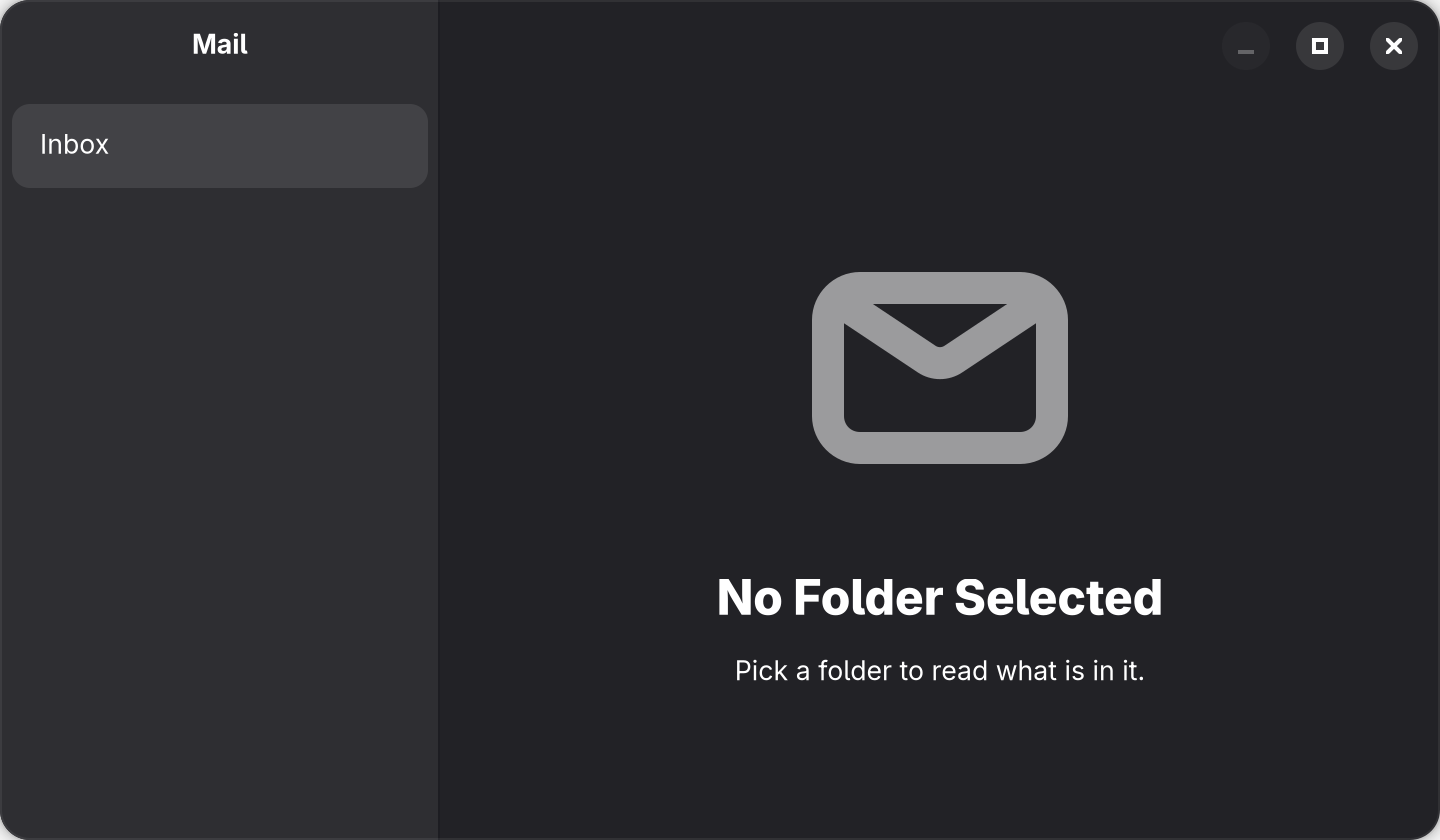
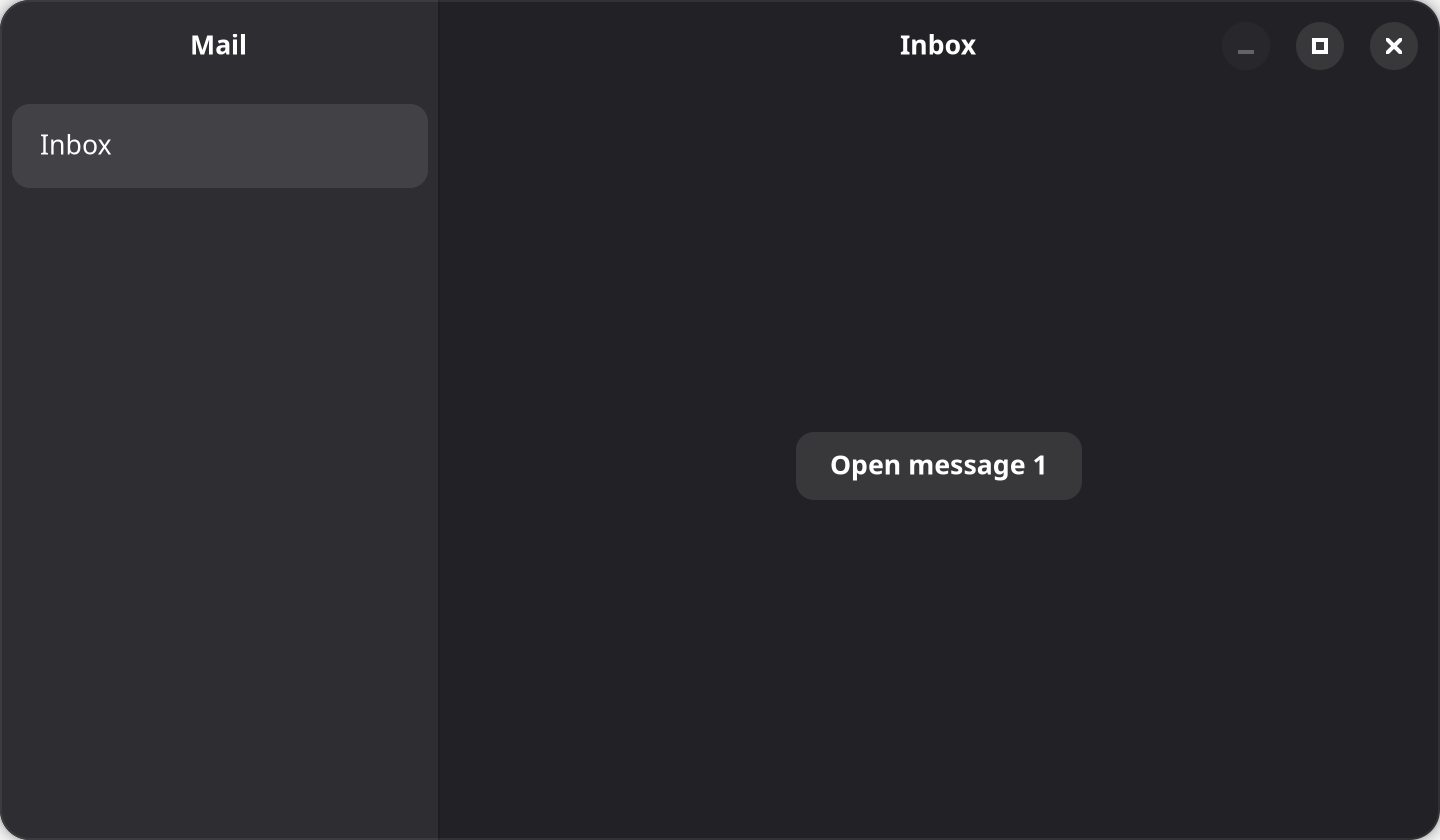
Open split view figure on Inbox, title navigation figures

diff --git a/website/figures/guide/navigation-split-view.tsx b/website/figures/guide/navigation-split-view.tsx
@@ -23,7 +23,7 @@ const Folders = ({
     navigation,
 }: SplitViewScreenProps<MailParams, "Folders">) => (
     <AdwSidebar
-        onActivated={() => navigation.navigate("Messages", { folder: "inbox" })}
+        onActivated={() => navigation.navigate("Messages", { folder: "Inbox" })}
     >
         <AdwSidebarSection>
             <AdwSidebarItem title="Inbox" />
@@ -48,6 +48,7 @@ const Message = ({ route }: SplitViewScreenProps<MailParams, "Message">) => (
 
 export const Mail = () => (
     <Split.Navigator
+        initialRouteName="Messages"
         collapseCondition="max-width: 500sp"
         minSidebarWidth={220}
         maxSidebarWidth={300}
@@ -68,6 +69,7 @@ export const Mail = () => (
         <Split.Screen
             name="Messages"
             component={Messages}
+            initialParams={{ folder: "Inbox" }}
             options={({ route }) => ({ title: route.params.folder })}
         />
         <Split.Screen

diff --git a/website/v2/guide/navigation.md b/website/v2/guide/navigation.md
@@ -152,7 +152,7 @@ export const App = () => {
 
 `createStackNavigator` renders an `AdwNavigationView`. Define the route parameters to typecheck screens, `navigate` calls, and `route.params`:
 
-<<< @/figures/guide/navigation-stack.tsx
+<<< @/figures/guide/navigation-stack.tsx [src/notes.tsx]
 
 <figure class="result">
     <img class="result-light" src="/figures/guide-navigation-stack-light.png" width="360" height="260" loading="lazy" alt="A window whose header bar shows the title Notes above a centered Open note 42 button." />
@@ -260,7 +260,7 @@ Stack screens emit `transitionStart` and `transitionEnd` from their native page 
 
 `createTabNavigator` renders an `AdwViewStack`. The switcher occupies the header title by default; `tabBarPosition="bottom"` puts an `AdwViewSwitcherBar` below the content:
 
-<<< @/figures/guide/navigation-tabs.tsx
+<<< @/figures/guide/navigation-tabs.tsx [src/mail.tsx]
 
 <figure class="result">
     <img class="result-light" src="/figures/guide-navigation-tabs-light.png" width="360" height="440" loading="lazy" alt="A window titled Inbox showing an Inbox status page, with a switcher bar at the bottom holding an Inbox button with a badge of 3 and an Archived button." />
@@ -280,7 +280,7 @@ User selection emits `tabPress`, which a screen listener can prevent. Programmat
 
 `createDrawerNavigator` uses an `AdwOverlaySplitView`. Its sidebar lists the screens and marks the focused one; a button in the content header toggles the sidebar:
 
-<<< @/figures/guide/navigation-drawer.tsx
+<<< @/figures/guide/navigation-drawer.tsx [src/app.tsx]
 
 <figure class="result">
     <img class="result-light" src="/figures/guide-navigation-drawer-light.png" width="640" height="400" loading="lazy" alt="A window with a sidebar titled Mail listing Inbox, selected, and Preferences with their icons, beside a content pane whose header has a sidebar toggle and the title Inbox above a No New Mail status page." />
@@ -322,13 +322,15 @@ Activating a row emits `drawerItemPress`, which `preventDefault` cancels, before
 
 `createSplitViewNavigator` keeps its first screen in the sidebar and places the other screens in a content stack. Use it when the sidebar selects data, such as a folder whose messages appear beside it:
 
-<<< @/figures/guide/navigation-split-view.tsx
+<<< @/figures/guide/navigation-split-view.tsx [src/mail.tsx]
 
 <figure class="result">
-    <img class="result-light" src="/figures/guide-navigation-split-view-light.png" width="720" height="420" loading="lazy" alt="A window with a sidebar titled Mail holding an Inbox row, beside a content pane with an untitled header bar above a No Folder Selected status page reading Pick a folder to read what is in it." />
-    <img class="result-dark" src="/figures/guide-navigation-split-view-dark.png" width="720" height="420" loading="lazy" alt="A window with a sidebar titled Mail holding an Inbox row, beside a content pane with an untitled header bar above a No Folder Selected status page reading Pick a folder to read what is in it." />
-    <figcaption>Captured from the sample above. <code>contentPlaceholder</code> fills the content pane until a folder is selected.</figcaption>
+    <img class="result-light" src="/figures/guide-navigation-split-view-light.png" width="720" height="420" loading="lazy" alt="A window with a sidebar titled Mail holding a selected Inbox row, beside a content pane whose header bar is titled Inbox above a centered Open message 1 button." />
+    <img class="result-dark" src="/figures/guide-navigation-split-view-dark.png" width="720" height="420" loading="lazy" alt="A window with a sidebar titled Mail holding a selected Inbox row, beside a content pane whose header bar is titled Inbox above a centered Open message 1 button." />
+    <figcaption>Captured from the sample above. The navigator opens on the Inbox folder, which the sidebar selects first.</figcaption>
 </figure>
+
+`AdwSidebar` selects its first item on its own, and `activated` fires only when the user activates a row. The sample therefore names a content screen in `initialRouteName`, with `initialParams`, so the pane opens on the folder the sidebar shows as selected instead of on the placeholder.
 
 In a split view, `navigate` selects a content route: it updates that route and removes pages above it. Choosing another folder therefore replaces the selection instead of adding another folder page. Use `push` to keep multiple copies of a content page.
 
@@ -364,11 +366,11 @@ const Sections = ({ navigation, route }: SplitViewScreenProps<SettingsParams, "S
 
 The reset switches sections without a page transition.
 
-The sidebar stays pinned beneath the content routes. Going back from the first content page clears the selection and restores `contentPlaceholder`, which sits below an untitled header bar so the window keeps its controls. An `initialRouteName` naming a content screen opens that screen instead of starting with the placeholder.
+The sidebar stays pinned beneath the content routes. Going back from the first content page clears the selection and restores `contentPlaceholder`, which sits below an untitled header bar so the window keeps its controls.
 
 Content pages use the stack's headers, back controls and transition events. The first selection fills an empty pane and emits no page transition. The sidebar has its own header without a back button.
 
-`collapseCondition` collapses the panes while an [`Adw.BreakpointCondition`](https://gnome.pages.gitlab.gnome.org/libadwaita/doc/main/type_func.BreakpointCondition.parse.html) holds, measured against the navigator's size. libadwaita applies it during layout, as it applies an `AdwBreakpoint` setter, so the panes change before GTK moves keyboard focus. Setting `collapsed` from a breakpoint's `onApply` and `onUnapply` handlers lands after GTK has moved focus, and widening the window can then select the focused sidebar row. Use `collapsed` when the layout depends on application state rather than size.
+`collapseCondition` collapses the panes while an [`Adw.BreakpointCondition`](https://gnome.pages.gitlab.gnome.org/libadwaita/doc/1-latest/type_func.BreakpointCondition.parse.html) holds, measured against the navigator's size. libadwaita applies it during layout, as it applies an `AdwBreakpoint` setter, so the panes change before GTK moves keyboard focus. Setting `collapsed` from a breakpoint's `onApply` and `onUnapply` handlers lands after GTK has moved focus, and widening the window can then select the focused sidebar row. Use `collapsed` when the layout depends on application state rather than size.
 
 As with window breakpoints, give the window a minimum size the collapsed layout fits:
 
@@ -385,7 +387,7 @@ export const App = () => (
 );
 ```
 
-`useSplitViewCollapsed()` tells the navigator's screens whether the panes are collapsed, whether `collapsed` or `collapseCondition` collapsed them. libadwaita's [`AdwSidebar`](https://gnome.pages.gitlab.gnome.org/libadwaita/doc/main/class.Sidebar.html) switches to page mode with the breakpoint that collapses its split view, so a sidebar screen reads the hook instead of repeating the condition in a window breakpoint:
+`useSplitViewCollapsed()` tells the navigator's screens whether the panes are collapsed, whether `collapsed` or `collapseCondition` collapsed them. libadwaita's [`AdwSidebar`](https://gnome.pages.gitlab.gnome.org/libadwaita/doc/1-latest/class.Sidebar.html) switches to page mode with the breakpoint that collapses its split view, so a sidebar screen reads the hook instead of repeating the condition in a window breakpoint:
 
 ```tsx
 import * as Adw from "@gtkx/gi/adw";
@@ -594,7 +596,7 @@ declare module "@react-navigation/core" {
 }
 ```
 
-GTKX uses the interface declared by `@react-navigation/core`, so augment that module. Install it directly with `npm install @react-navigation/core@^7`: pnpm keeps transitive dependencies out of the project's `node_modules`, and TypeScript cannot augment a module it cannot resolve. The same pattern works with a static navigator. See React Navigation's [TypeScript guide](https://reactnavigation.org/docs/typescript/) for nested screens and inferred route parameters.
+GTKX uses the interface declared by `@react-navigation/core`, so augment that module. Install it directly with `npm install @react-navigation/core@^7`: pnpm keeps transitive dependencies out of the project's `node_modules`, and TypeScript cannot augment a module it cannot resolve. Until it resolves, `navigate` from `useNavigation()` rejects every route, typed as `never`. The same pattern works with a static navigator. See React Navigation's [TypeScript guide](https://reactnavigation.org/docs/typescript/) for nested screens and inferred route parameters.
 
 ## Testing
 
